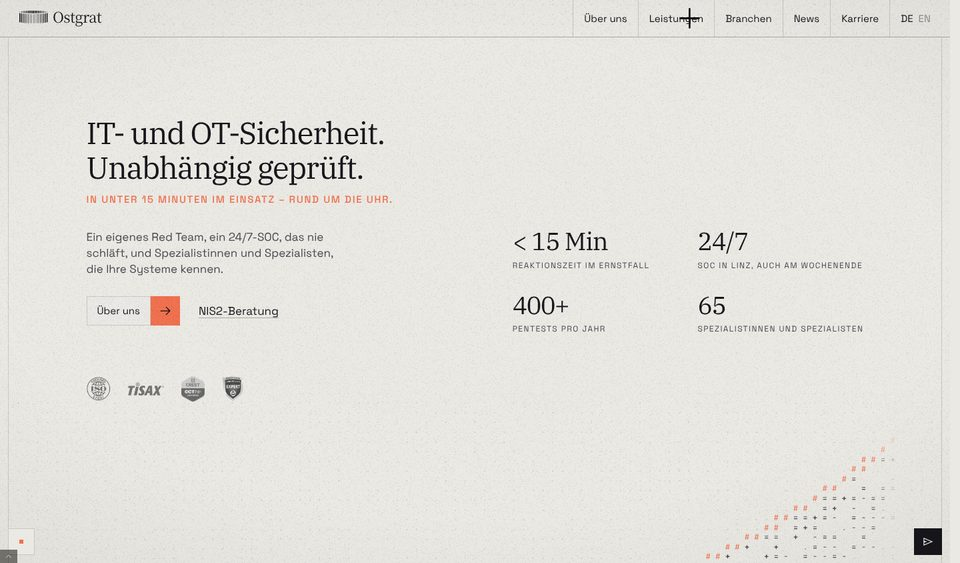
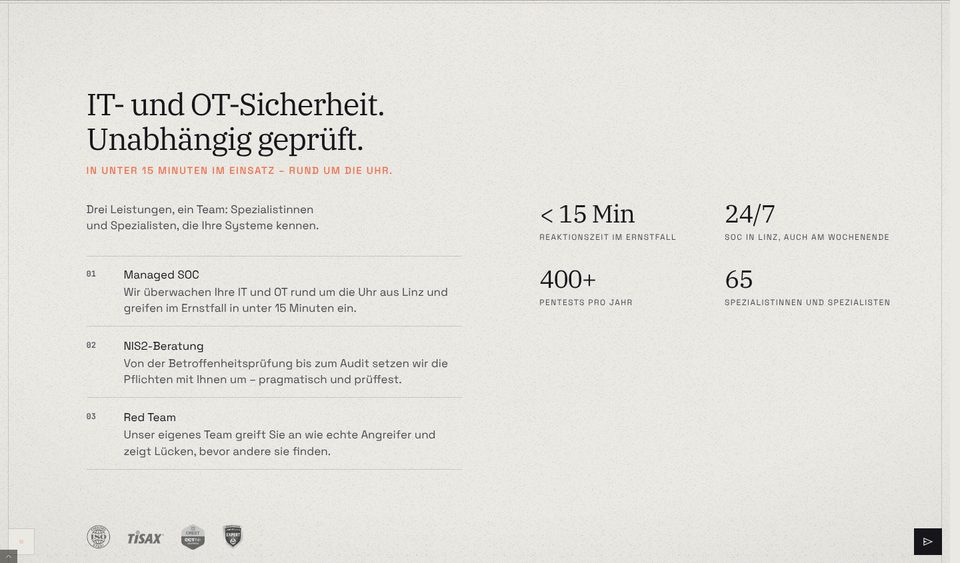
Facts: drei wichtigste Leistungen als Liste statt Fließtext und Buttons
Facts-Text auf zwei Zeilen gekürzt;
Buttons Über uns und NIS2-Beratung entfernt;
Neue nummerierte Liste mit Managed SOC, NIS2-Beratung und Red Team, je mit einem Satz Erklärung;
CMS-Feld Wichtigste Leistungen im Fakten-Block, Buttons nur noch wenn befüllt;
Handy: Trennlinien der Liste bis zum Rand;
Block-Screenshot start-fakten neu aufgenommen;

Claude-Session: https://claude.ai/code/session_01TNgkcerP8rE5vw9bAJCyA6

diff --git a/src/legacy/head.html b/src/legacy/head.html
@@ -1717,4 +1717,8 @@ video{pointer-events:none}   /* dekorative Videos: keine Browser-Bedienelemente 
   #gscroll{height:calc(100svh - 67px - var(--bb) + 230vh)!important}   /* Aufbau, dann rückt alles nach oben, bis die Erde ganz zu sehen ist */
 }
 @media(min-width:901px){nav a.has-sub > svg{display:none!important}}   /* Plus nur im mobilen Menü */
+/* Facts: wichtigste Leistungen als Liste statt Buttons */
+.why-c .why-svc{margin:32px 0 0;max-width:56ch}
+.why-c .why-svc + .why-logos,.why-c .why-svc ~ .why-logos{margin-top:40px}
+@media(max-width:900px){.why-c .why-svc{margin:32px -28px 0!important}}
 </style>
